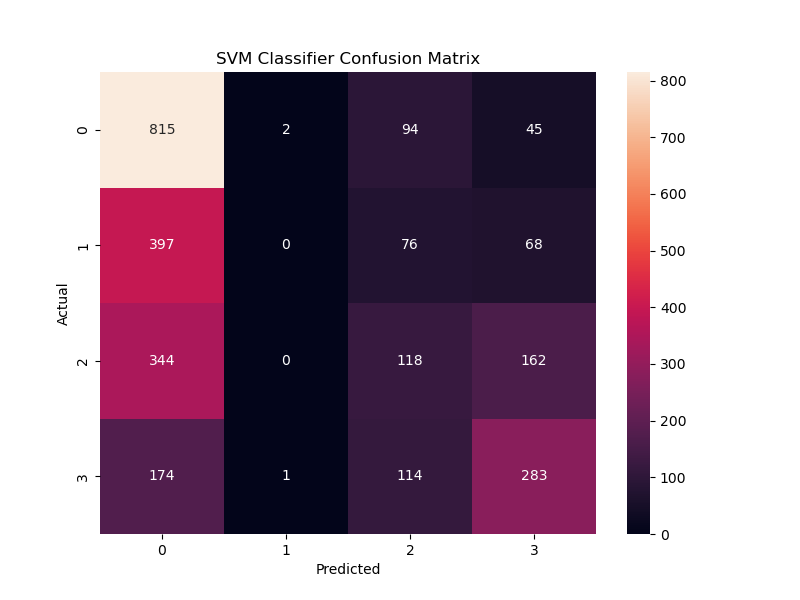
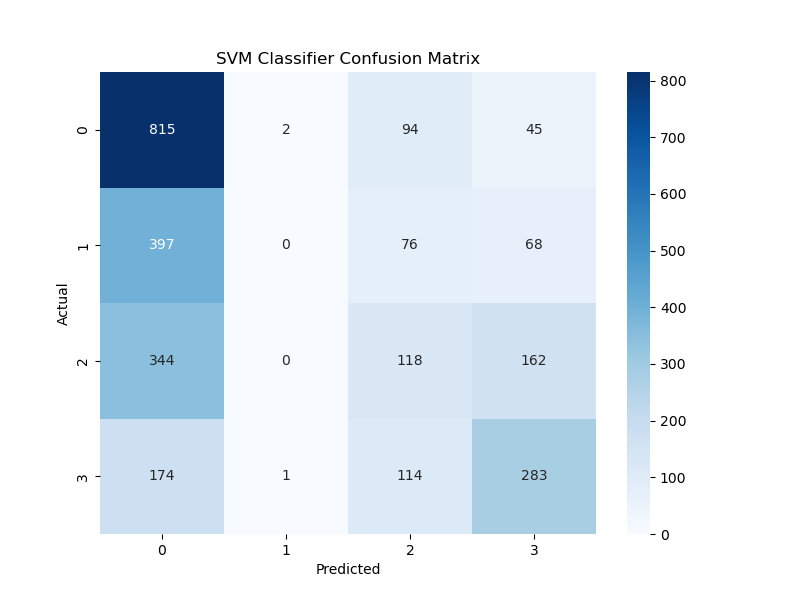
confusion matrix color change

diff --git a/script/ml.py b/script/ml.py
@@ -98,7 +98,7 @@ for clf_name, clf in classifiers.items():
     # Plot confusion matrix
     cm = confusion_matrix(y_test_clf, y_pred_clf)
     plt.figure(figsize=(8, 6))
-    sns.heatmap(cm, annot=True, fmt='d')
+    sns.heatmap(cm, annot=True, fmt='d',cmap='Blues')
     plt.title(f'{clf_name} Confusion Matrix')
     plt.xlabel('Predicted')
     plt.ylabel('Actual')
